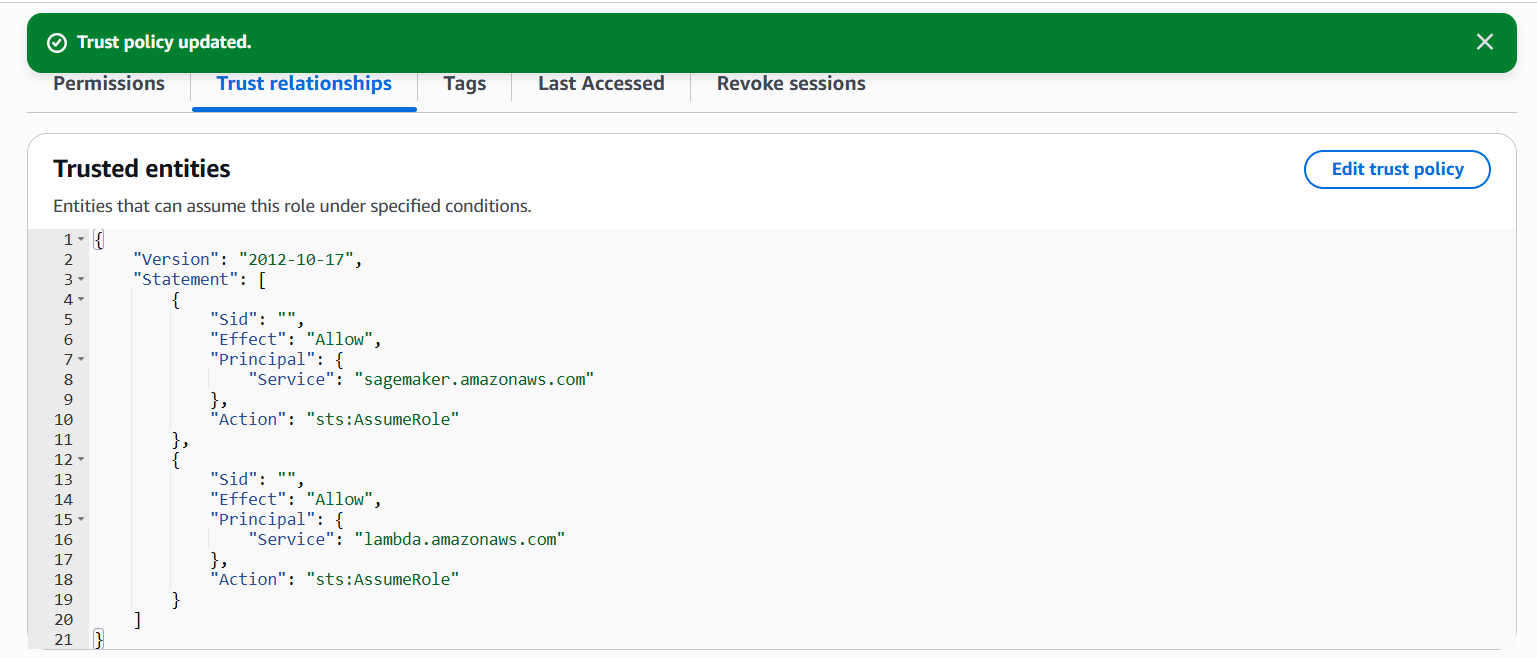
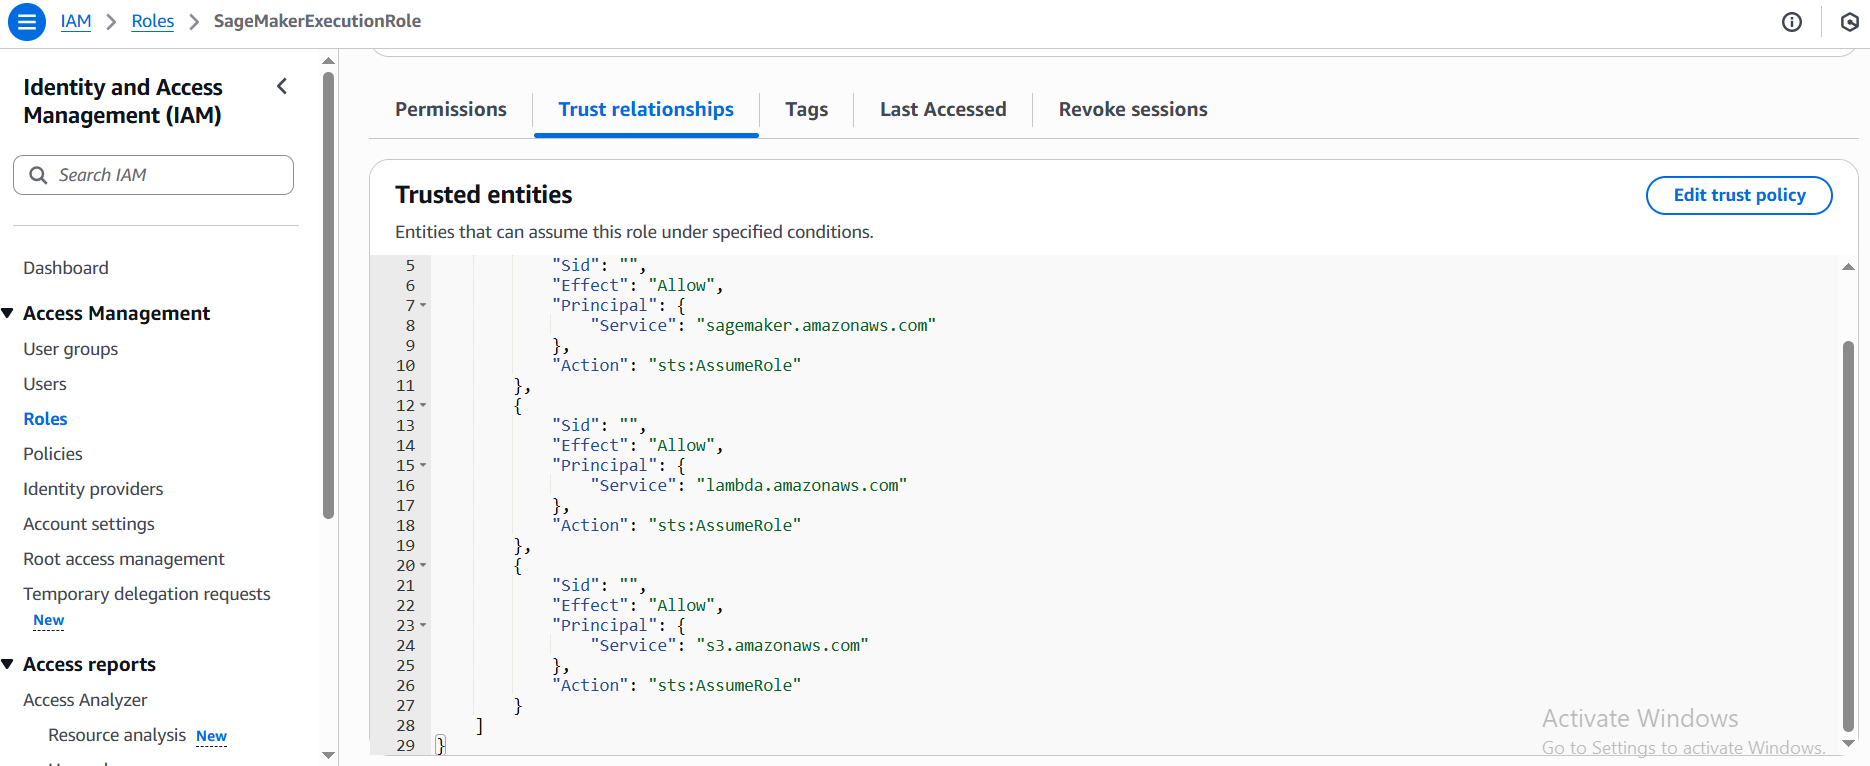
update: update images, function lambda and train script

diff --git a/content/5-Workshop/5.2-Prerequiste/_index.vi.md b/content/5-Workshop/5.2-Prerequiste/_index.vi.md
@@ -84,58 +84,94 @@ Tạo file train.py ở máy local với nội dung giả lập quá trình trai
 import argparse
 import os
 import time
-import joblib  # <--- Nhớ import thư viện này
+import joblib
+import shutil
+import json 
 
 # ---------------------------------------------------------
-# PHẦN 1: CÁC HÀM BẮT BUỘC CHO SAGE MAKER ENDPOINT (INFERENCE)
+# PHẦN 1: CÁC HÀM INFERENCE 
 # ---------------------------------------------------------
 
 def model_fn(model_dir):
-    """
-    Hàm này được SageMaker gọi TỰ ĐỘNG khi khởi động Endpoint.
-    Nhiệm vụ: Load model từ ổ cứng lên RAM.
-    """
+    """Load model từ ổ cứng"""
     print(f"Đang load model từ: {model_dir}")
     model_path = os.path.join(model_dir, 'model.joblib')
     
     if os.path.exists(model_path):
-        # Load model ra. Ở dưới mình lưu là Dictionary nên load ra cũng là Dictionary
         return joblib.load(model_path)
     else:
         raise FileNotFoundError(f"Không tìm thấy file model tại: {model_path}")
 
+def input_fn(request_body, request_content_type):
+    """
+    Hàm này nhận Raw Bytes từ request và chuyển thành object Python
+    """
+    if request_content_type == 'application/json':
+        # Chuyển chuỗi JSON (bytes) thành Python List/Dict
+        return json.loads(request_body)
+    else:
+        # Nếu gửi content-type khác, báo lỗi
+        raise ValueError(f"Content type {request_content_type} chưa được hỗ trợ.")
+
 def predict_fn(input_data, model):
     """
-    Hàm này nhận data từ user và đưa vào model
+    Logic dự đoán
     """
-    # Vì model là dummy (chỉ là cái Dict), trả về nguyên văn
-    return {"status": "success", "prediction": model, "input_received": input_data}
+    # Vì đây là dummy model (Dict), ta giả lập việc dự đoán
+    # input_data lúc này đã là List/Dict nhờ hàm input_fn ở trên
+    
+    result = {
+        "status": "success",
+        "prediction_from_model": model, # Model dummy của bạn
+        "input_you_sent": input_data
+    }
+    return result
+
+def output_fn(prediction, content_type):
+    """
+    Hàm này nhận kết quả từ predict_fn và chuyển thành JSON để trả về Client.
+    QUAN TRỌNG: Khắc phục lỗi 500 tại đây.
+    """
+    # Mặc định SageMaker mong đợi accept header là application/json
+    if content_type == 'application/json':
+        return json.dumps(prediction)
+    
+    raise ValueError(f"Accept type {content_type} chưa được hỗ trợ.")
 
 # ---------------------------------------------------------
-# PHẦN 2: CODE TRAINING 
+# PHẦN 2: CODE TRAINING
 # ---------------------------------------------------------
 
 if __name__ == '__main__':
     parser = argparse.ArgumentParser()
     
-    # SageMaker tự động mount data vào các đường dẫn này
     parser.add_argument('--train', type=str, default=os.environ.get('SM_CHANNEL_TRAIN'))
     parser.add_argument('--model-dir', type=str, default=os.environ.get('SM_MODEL_DIR'))
     
     args, _ = parser.parse_known_args()
     
     print("Starting training...")
-    time.sleep(5) # Giả lập training
+    # time.sleep(5) 
     
-    # Dùng joblib.dump để lưu object thật
-    # Để tí nữa hàm model_fn ở trên có thể load lại được bằng joblib.load
     dummy_model = {"name": "Dummy Model", "accuracy": 99.9}
     
     save_path = os.path.join(args.model_dir, 'model.joblib')
     joblib.dump(dummy_model, save_path)
-    # ------------------------
         
     print(f"Training complete. Model saved to {save_path}")
+
+    # Lấy đường dẫn file code đang chạy hiện tại
+    current_script_path = __file__
+    
+    # Định nghĩa đường dẫn đích trong folder output
+    code_output_path = os.path.join(args.model_dir, 'train.py')
+    
+    print(f"Copying code from {current_script_path} to {code_output_path}")
+    shutil.copy2(current_script_path, code_output_path)
+    
+    # =========================================================
+
+    print("Training and packaging complete.")
 ```
 
 Nén file này lại thành .tar.gz

diff --git a/content/5-Workshop/5.2-Prerequiste/_index.md b/content/5-Workshop/5.2-Prerequiste/_index.md
@@ -47,42 +47,93 @@ import argparse
 import os
 import time
 import joblib
+import shutil
+import json 
 
 # ---------------------------------------------------------
-# PART 1: REQUIRED FUNCTIONS FOR SAGEMAKER ENDPOINT (INFERENCE)
+# PHẦN 1: CÁC HÀM INFERENCE 
 # ---------------------------------------------------------
 
 def model_fn(model_dir):
-    """SageMaker calls this automatically when the endpoint starts. Load model from disk."""
-    print(f"Loading model from: {model_dir}")
+    """Load model từ ổ cứng"""
+    print(f"Đang load model từ: {model_dir}")
     model_path = os.path.join(model_dir, 'model.joblib')
+    
     if os.path.exists(model_path):
         return joblib.load(model_path)
     else:
-        raise FileNotFoundError(f"Model not found at: {model_path}")
+        raise FileNotFoundError(f"Không tìm thấy file model tại: {model_path}")
 
+def input_fn(request_body, request_content_type):
+    """
+    Hàm này nhận Raw Bytes từ request và chuyển thành object Python
+    """
+    if request_content_type == 'application/json':
+        # Chuyển chuỗi JSON (bytes) thành Python List/Dict
+        return json.loads(request_body)
+    else:
+        # Nếu gửi content-type khác, báo lỗi
+        raise ValueError(f"Content type {request_content_type} chưa được hỗ trợ.")
 
 def predict_fn(input_data, model):
-    """(Optional) Prepare model prediction output for the endpoint"""
-    return {"status": "success", "prediction": model, "input_received": input_data}
+    """
+    Logic dự đoán
+    """
+    # Vì đây là dummy model (Dict), ta giả lập việc dự đoán
+    # input_data lúc này đã là List/Dict nhờ hàm input_fn ở trên
+    
+    result = {
+        "status": "success",
+        "prediction_from_model": model, # Model dummy của bạn
+        "input_you_sent": input_data
+    }
+    return result
+
+def output_fn(prediction, content_type):
+    """
+    Hàm này nhận kết quả từ predict_fn và chuyển thành JSON để trả về Client.
+    QUAN TRỌNG: Khắc phục lỗi 500 tại đây.
+    """
+    # Mặc định SageMaker mong đợi accept header là application/json
+    if content_type == 'application/json':
+        return json.dumps(prediction)
+    
+    raise ValueError(f"Accept type {content_type} chưa được hỗ trợ.")
 
 # ---------------------------------------------------------
-# PART 2: TRAINING CODE
+# PHẦN 2: CODE TRAINING
 # ---------------------------------------------------------
 
 if __name__ == '__main__':
     parser = argparse.ArgumentParser()
+    
     parser.add_argument('--train', type=str, default=os.environ.get('SM_CHANNEL_TRAIN'))
     parser.add_argument('--model-dir', type=str, default=os.environ.get('SM_MODEL_DIR'))
+    
     args, _ = parser.parse_known_args()
-
+    
     print("Starting training...")
-    time.sleep(5)  # simulate training
-
+    # time.sleep(5) 
+    
     dummy_model = {"name": "Dummy Model", "accuracy": 99.9}
+    
     save_path = os.path.join(args.model_dir, 'model.joblib')
     joblib.dump(dummy_model, save_path)
+        
     print(f"Training complete. Model saved to {save_path}")
+
+    # Lấy đường dẫn file code đang chạy hiện tại
+    current_script_path = __file__
+    
+    # Định nghĩa đường dẫn đích trong folder output
+    code_output_path = os.path.join(args.model_dir, 'train.py')
+    
+    print(f"Copying code from {current_script_path} to {code_output_path}")
+    shutil.copy2(current_script_path, code_output_path)
+    
+    # =========================================================
+
+    print("Training and packaging complete.")
 ```
 
 Package the code into a tarball:

diff --git a/content/5-Workshop/5.4-Endpoint/5.4.3-deploy-invoke/_index.vi.md b/content/5-Workshop/5.4-Endpoint/5.4.3-deploy-invoke/_index.vi.md
@@ -65,7 +65,7 @@ def lambda_handler(event, context):
     try:
         # 1. Lấy thông tin file vừa upload từ S3 Event
         s3_record = event['Records'][0]['s3']
-        bucket = s3_record['bucket']['name']
+        bucket = s3_record['bucket']['name'].strip()
         key = s3_record['object']['key']
         
         model_url = f"s3://{bucket}/{key}"
@@ -73,8 +73,8 @@ def lambda_handler(event, context):
         # Tạo tên unique cho model và endpoint dựa trên thời gian
         timestamp = time.strftime('%Y-%m-%d-%H-%M-%S', time.gmtime())
         model_name = f"sklearn-model-{timestamp}"
-        endpoint_config_name = f"sklearn-config-{timestamp}"
-        endpoint_name = f"sklearn-serverless-{timestamp}"
+        endpoint_config_name = f"endpoint-config-{timestamp}"
+        endpoint_name = f"endpoint-serverless-{timestamp}"
 
         logger.info(f"Phát hiện model mới: {model_url}")
 
@@ -86,7 +86,7 @@ def lambda_handler(event, context):
                 'Image': CONTAINER_IMAGE_URI,
                 'ModelDataUrl': model_url,
                 'Environment': {
-                    'SAGEMAKER_PROGRAM': 'inference.py', # Tên file script chính của bạn
+                    'SAGEMAKER_PROGRAM': 'train.py', # Tên file script chính của bạn
                     'SAGEMAKER_SUBMIT_DIRECTORY': model_url # Nơi chứa code (thường chung với model artifact)
                 }
             },

diff --git a/content/5-Workshop/5.3-Training-flow/5.3.1-lamda-function/_index.md b/content/5-Workshop/5.3-Training-flow/5.3.1-lamda-function/_index.md
@@ -24,7 +24,39 @@ After clicking **Create function**, the Lambda function will be created.
 
 Before using the function, update the role's policy to allow Lambda to assume the role.
 
-Go to IAM Console → **Roles** → select the role you created, then edit the **Trust relationship** and add the statement allowing Lambda to assume the role.
+Go to IAM Console → **Roles** → select the role you created, then edit the **Trust relationship** and add the statement allowing Lambda and S3to assume the role.
+
+```
+{
+	"Version": "2012-10-17",
+	"Statement": [
+		{
+			"Sid": "",
+			"Effect": "Allow",
+			"Principal": {
+				"Service": "sagemaker.amazonaws.com"
+			},
+			"Action": "sts:AssumeRole"
+		},
+		{
+			"Sid": "",
+			"Effect": "Allow",
+			"Principal": {
+				"Service": "lambda.amazonaws.com"
+			},
+			"Action": "sts:AssumeRole"
+		},
+		{
+			"Sid": "",
+			"Effect": "Allow",
+			"Principal": {
+				"Service": "s3.amazonaws.com"
+			},
+			"Action": "sts:AssumeRole"
+		}
+	]
+}
+```
 
 ![lambda](/images/5-Workshop/5.3-Training-flow/update-policy.png)
 

diff --git a/content/5-Workshop/5.4-Endpoint/5.4.3-deploy-invoke/_index.md b/content/5-Workshop/5.4-Endpoint/5.4.3-deploy-invoke/_index.md
@@ -68,7 +68,7 @@ def lambda_handler(event, context):
     try:
         # 1. Retrieve the uploaded file info from the S3 event
         s3_record = event['Records'][0]['s3']
-        bucket = s3_record['bucket']['name']
+        bucket = s3_record['bucket']['name'].strip()
         key = s3_record['object']['key']
 
         model_url = f"s3://{bucket}/{key}"
@@ -76,8 +76,8 @@ def lambda_handler(event, context):
         # Create unique names based on timestamp
         timestamp = time.strftime('%Y-%m-%d-%H-%M-%S', time.gmtime())
         model_name = f"sklearn-model-{timestamp}"
-        endpoint_config_name = f"sklearn-config-{timestamp}"
-        endpoint_name = f"sklearn-serverless-{timestamp}"
+        endpoint_config_name = f"endpoint-config-{timestamp}"
+        endpoint_name = f"endpoint-serverless-{timestamp}"
 
         logger.info(f"Detected new model: {model_url}")
 

diff --git a/content/5-Workshop/5.3-Training-flow/5.3.1-lamda-function/_index.vi.md b/content/5-Workshop/5.3-Training-flow/5.3.1-lamda-function/_index.vi.md
@@ -29,7 +29,7 @@ Nhấn **Create function** và Lambda sẽ được tạo
 
 Vào IAM console mục **Role** chọn role vừa tạo.
 
-Ở phần **Trust relationship** nhấn **Edit trust policy** sau đó thêm statement cho phép Lambda vào.
+Ở phần **Trust relationship** nhấn **Edit trust policy** sau đó thêm statement cho phép Lambda và S3 vào.
 
 ![lambda](/images/5-Workshop/5.3-Training-flow/update-policy.png)
 

diff --git a/content/_index.vi.md b/content/_index.vi.md
@@ -25,7 +25,7 @@ chapter: false
 
 &emsp; **Thời gian thực tập:** Từ 09/2025 đến 1/2026
 
-![Ảnh đại diện của bạn](/images/avatar.jpg)
+![Ảnh đại diện của bạn](/static/images/avatar.jpg)
 
 
 
